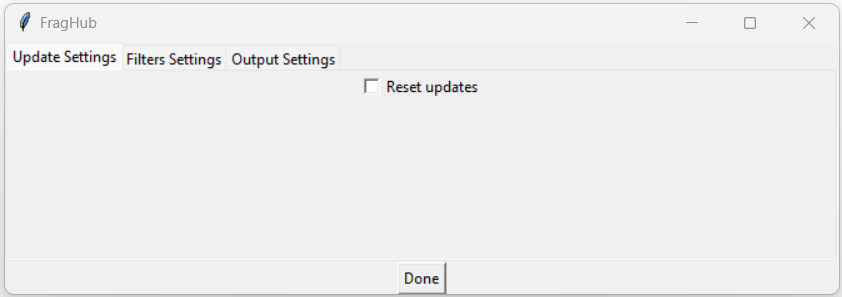
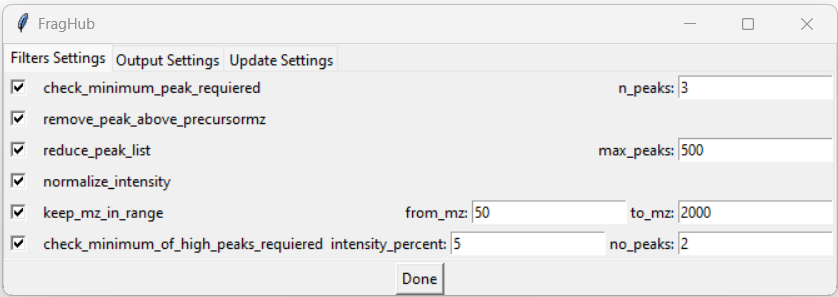
Corrected order and matching of screenshots in README.md
The order of screenshots in the README.md was fixed to correctly match the written instructions per each tab. Moreover, all screenshots have been confirmed to match their associated functions. The images are now properly aligned with the correct tabs and respective explanations.

diff --git a/README.md b/README.md
@@ -17,9 +17,9 @@ To use this programme:
 1) Put your msp, mgf, json, csv or xml files into 'INPUT/\<dedicated folder\>'.
 2) Double-click on your corresponding OS run script into RUN folder.<br>
    1) FragHub GUI start<br>
-   2) First tab: This area allows users to select specific functions for inclusion during the processing stage. Moreover, it provides the option to adjust the respective parameters of each function.<br>![img_1.png](img_1.png)
-   3) Second tab: Select the output file format of your preference. By default, all formats are selected.<br>![img_2.png](img_2.png)
-   4) Third tab: The 'Reset updates' option, when checked, allows for a reset of everything related to previously encountered spectra. This will also delete all existing files located in the OUTPUT folder.<br>![img.png](img.png)
+   2) First tab: This area allows users to select specific functions for inclusion during the processing stage. Moreover, it provides the option to adjust the respective parameters of each function.<br>![img.png](img.png)
+   3) Second tab: Select the output file format of your preference. By default, all formats are selected.<br>![img_1.png](img_1.png)
+   4) Third tab: The 'Reset updates' option, when checked, allows for a reset of everything related to previously encountered spectra. This will also delete all existing files located in the OUTPUT folder.<br>![img_3.png](img_3.png)
 3) When the execution is complete, please remember to take a copy of your cleaned files from the OUTPUT folder and place them in a different location.
 4) **DO NOT DELETE FILES INTO 'OUTPUT' AFTER COPY CLEANED VERSIONS.**
 
